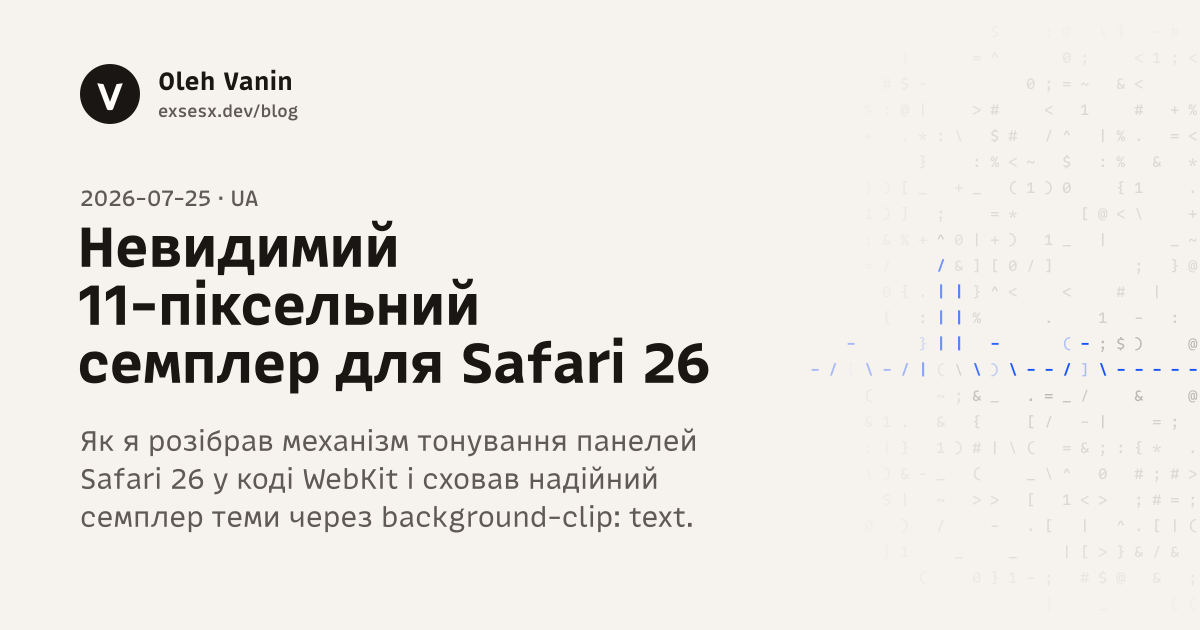
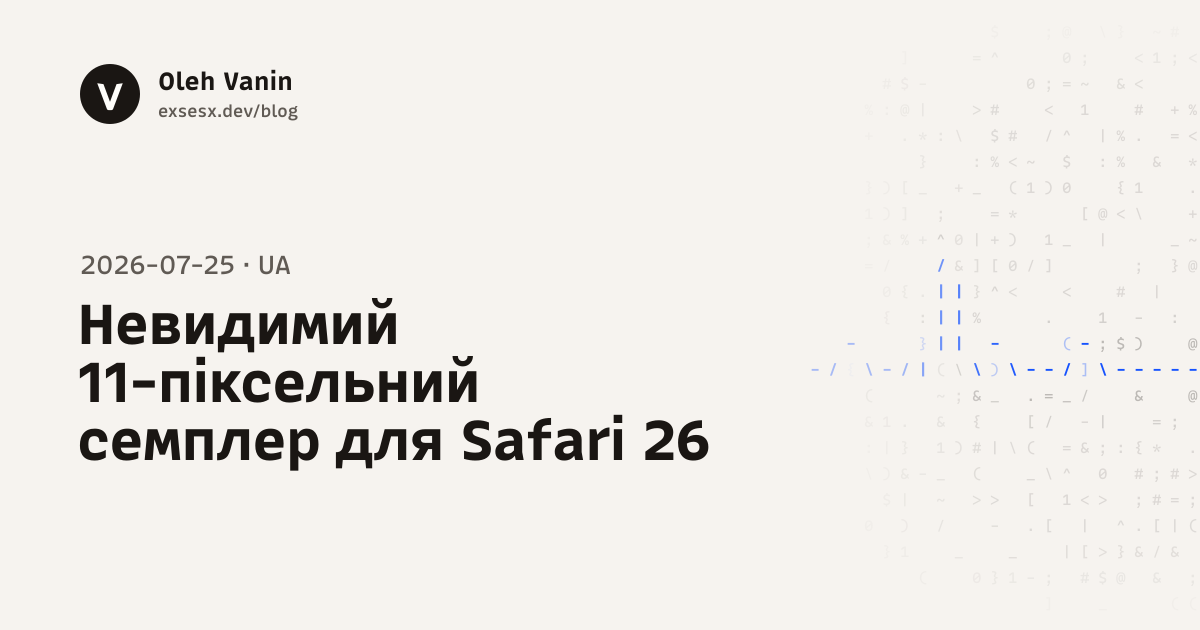
feat: drop the deck from blog social cards
no post's description opens with a sentence that fits one line at a
thumbnail-legible size, so the card carries the title alone, larger and
centered under the lockup; bump socialImageVersion to 9

Changed region(s): [[0.0617, 0.3317, 0.6167, 0.7841], [0.0617, 0.8143, 0.5858, 0.8444], [0.0617, 0.3016, 0.2158, 0.3317]]

diff --git a/scripts/generate-social-images.ts b/scripts/generate-social-images.ts
@@ -411,69 +411,41 @@ function blogIndexSvg() {
 }
 
 /*
- * The card's deck: the description's first sentence, whole. A sentence that cannot
- * fit falls back to its first clause (up to a semicolon); if that cannot fit either,
- * the run fails so the description gets rewritten instead of cut mid-word.
+ * An article card holds the title alone under its date and edition. Descriptions run a
+ * full sentence or more, which no single line at a thumbnail-legible size can hold, and
+ * a cut sentence would misquote the post, so the card carries no deck. The title takes
+ * the room instead and sits centered in the space below the lockup.
  */
-function socialDeck(
-  post: BlogPostSummary,
-  options: { maxWidth: number; maxLines: number; idealSize: number; minSize: number },
-) {
-  const firstSentence = post.description.trim().split(/(?<=[.!?])\s+/)[0];
-  const firstClause = firstSentence.includes(";") ? `${firstSentence.split(";")[0].trimEnd()}.` : null;
-
-  for (const candidate of [firstSentence, firstClause]) {
-    if (!candidate) {
-      continue;
-    }
-
-    for (let fontSize = options.idealSize; fontSize >= options.minSize; fontSize -= 1) {
-      const lines = wrapLinesByWidth(candidate, options.maxWidth, fontSize);
-
-      if (
-        lines.length <= options.maxLines &&
-        lines.every(line => approxTextWidth(line, fontSize) <= options.maxWidth)
-      ) {
-        return { lines, fontSize };
-      }
-    }
-  }
-
-  throw new Error(`No complete social deck fits for ${post.locale}/${post.slug}: shorten its first sentence.`);
-}
-
 function blogArticleSvg(post: BlogPostSummary) {
   const title = fittedLines(post.title, {
     maxWidth: 680,
     maxLines: 3,
-    idealSize: 72,
-    minSize: 46,
+    idealSize: 84,
+    minSize: 52,
     measureScale: 1.04,
   });
   const titleLineHeight = Math.round(title.fontSize * 1.04);
-  const titleY = 236 + title.fontSize * 0.55;
-  const deckY = titleY + titleLineHeight * (title.lines.length - 1) + 68;
-  const deckLineHeight = 38;
-  // As many deck lines as fit above a 58px bottom margin, never more than three.
-  const deck = socialDeck(post, {
-    maxWidth: 680,
-    maxLines: Math.min(3, Math.floor((height - 58 - deckY) / deckLineHeight) + 1),
-    idealSize: 28,
-    minSize: 24,
-  });
+  const eyebrowSize = 26;
+  const eyebrowGap = 30;
+  // The block runs from the eyebrow's cap line to the last title line's baseline.
+  const titleCapHeight = title.fontSize * 0.72;
+  const blockHeight = eyebrowSize * 0.72 + eyebrowGap + titleCapHeight + titleLineHeight * (title.lines.length - 1);
+  const contentTop = 150;
+  const contentBottom = height - 64;
+  const eyebrowY = Math.round(contentTop + (contentBottom - contentTop - blockHeight) / 2 + eyebrowSize * 0.72);
+  const titleY = Math.round(eyebrowY + eyebrowGap + titleCapHeight);
 
   return baseSvg(`
     ${asciiField({ seed: seedFrom(`${post.locale}/${post.slug}`), startX: 800, baselineY: 370, accent: colors.accent, beatOffset: seedFrom(post.slug) % 20 })}
     ${brand(`${SITE_PROFILE.domain}/blog`)}
     ${textBlock([`${post.publishedAt.slice(0, 10)} · ${BLOG_LOCALE_LABELS[post.locale]}`], {
       x: marginX,
-      y: 206,
-      fontSize: 22,
+      y: eyebrowY,
+      fontSize: eyebrowSize,
       lineHeight: 0,
       className: "eyebrow",
     })}
     ${textBlock(title.lines, { x: marginX - 3, y: titleY, fontSize: title.fontSize, lineHeight: titleLineHeight, className: "display" })}
-    ${textBlock(deck.lines, { x: marginX, y: deckY, fontSize: deck.fontSize, lineHeight: deckLineHeight, className: "lede" })}
   `);
 }
 

diff --git a/src/lib/metadata.ts b/src/lib/metadata.ts
@@ -9,7 +9,7 @@ export const siteName = SITE_PROFILE.domain;
 const socialPreviewPath = "/images/social-preview.png";
 // Bump to force social platforms (Telegram, X, LinkedIn, Slack) to re-scrape
 // cached previews — they cache og:image by URL.
-const socialImageVersion = "8";
+const socialImageVersion = "9";
 const previewDeploymentUrl = process.env.VERCEL_BRANCH_URL ?? process.env.VERCEL_URL;
 const socialImageOrigin =
   process.env.VERCEL_ENV === "preview" && previewDeploymentUrl ? `https://${previewDeploymentUrl}` : siteUrl;
